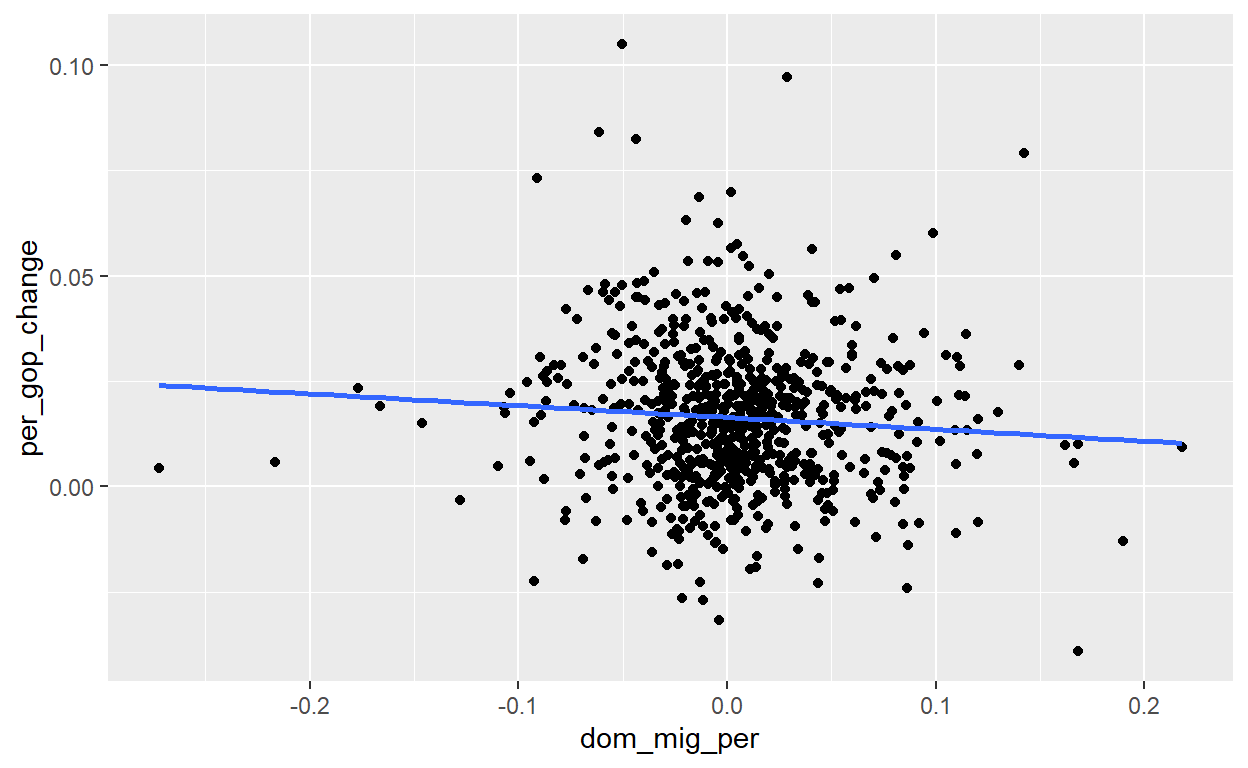
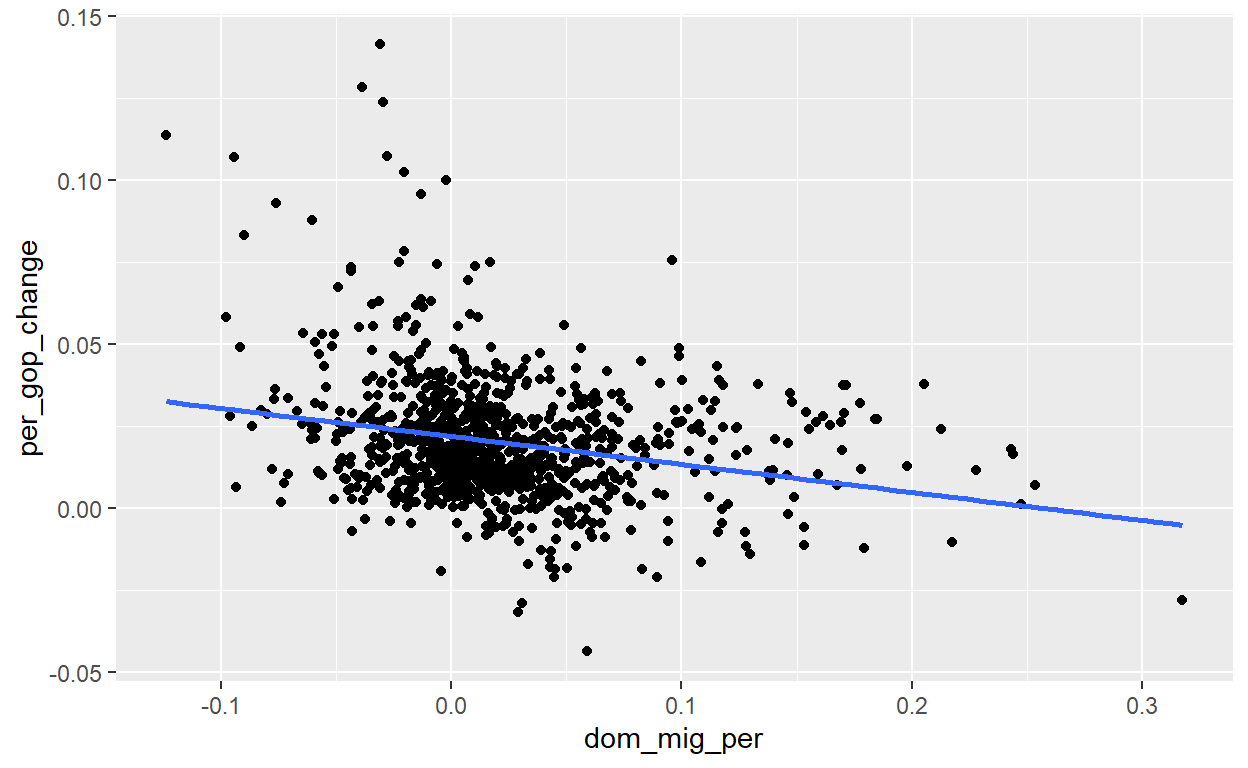
New Graphs plus cleaned up plus explinations

diff --git a/index.html b/index.html
@@ -116,7 +116,7 @@ code span.wa { color: #5e5e5e; font-style: italic; } /* Warning */
   <!--/radix_placeholder_rmarkdown_metadata-->
   
   <script type="text/json" id="radix-resource-manifest">
-  {"type":"character","attributes":{},"value":["index_files/anchor-4.2.2/anchor.min.js","index_files/bowser-1.9.3/bowser.min.js","index_files/distill-2.2.21/template.v2.js","index_files/figure-html5/unnamed-chunk-3-1.png","index_files/figure-html5/unnamed-chunk-4-1.png","index_files/figure-html5/unnamed-chunk-5-1.png","index_files/figure-html5/unnamed-chunk-6-1.png","index_files/header-attrs-2.17/header-attrs.js","index_files/header-attrs-2.30/header-attrs.js","index_files/jquery-3.6.0/jquery-3.6.0.js","index_files/jquery-3.6.0/jquery-3.6.0.min.js","index_files/jquery-3.6.0/jquery-3.6.0.min.map","index_files/popper-2.6.0/popper.min.js","index_files/tippy-6.2.7/tippy-bundle.umd.min.js","index_files/tippy-6.2.7/tippy-light-border.css","index_files/tippy-6.2.7/tippy.css","index_files/tippy-6.2.7/tippy.umd.min.js","index_files/webcomponents-2.0.0/webcomponents.js","pop_data/co-est2024-alldata.csv","pres_data/2020_US_County_Level_Presidential_Results.csv","pres_data/2024_US_County_Level_Presidential_Results.csv"]}
+  {"type":"character","attributes":{},"value":["index_files/anchor-4.2.2/anchor.min.js","index_files/bowser-1.9.3/bowser.min.js","index_files/distill-2.2.21/template.v2.js","index_files/figure-html5/unnamed-chunk-3-1.png","index_files/figure-html5/unnamed-chunk-4-1.png","index_files/figure-html5/unnamed-chunk-5-1.png","index_files/figure-html5/unnamed-chunk-6-1.png","index_files/figure-html5/unnamed-chunk-7-1.png","index_files/figure-html5/unnamed-chunk-8-1.png","index_files/header-attrs-2.17/header-attrs.js","index_files/header-attrs-2.30/header-attrs.js","index_files/jquery-3.6.0/jquery-3.6.0.js","index_files/jquery-3.6.0/jquery-3.6.0.min.js","index_files/jquery-3.6.0/jquery-3.6.0.min.map","index_files/popper-2.6.0/popper.min.js","index_files/tippy-6.2.7/tippy-bundle.umd.min.js","index_files/tippy-6.2.7/tippy-light-border.css","index_files/tippy-6.2.7/tippy.css","index_files/tippy-6.2.7/tippy.umd.min.js","index_files/webcomponents-2.0.0/webcomponents.js","pop_data/co-est2024-alldata.csv","pres_data/2020_US_County_Level_Presidential_Results.csv","pres_data/2024_US_County_Level_Presidential_Results.csv"]}
   </script>
   <!--radix_placeholder_navigation_in_header-->
   <!--/radix_placeholder_navigation_in_header-->
@@ -1547,55 +1547,9 @@ code span.wa { color: #5e5e5e; font-style: italic; } /* Warning */
 <h2 id="project-description">Project Description</h2>
 <p>It is a common political complaint among conservative Americans that when people move in from out of state they “take their politics with them.” The three states with the largest exodus of population are solidly blue states with large blue metropolitan areas: California, Illinois, and New York. But is this trope actually true or is it borne out of some sort of large scale “survivorship bias”? In this study, each county in 48 states (excluding the District of Columbia, Alaska, and Connecticut for statistical reasons) will be used to compare their changes in voting patterns from the 2020 and 2024 Presidential Elections. In order to get a holistic view, the data will be organized by state, population, et cetera.This project will seek to answer, or at a minimum strive towards answering, whether the large flow of domestic migration has a major effect on electoral behaviors.</p>
 <div class="layout-chunk" data-layout="l-body">
-<div class="sourceCode">
-<pre class="sourceCode r"><code class="sourceCode r"><span><span class='kw'><a href='https://rdrr.io/r/base/library.html'>library</a></span><span class='op'>(</span><span class='va'><a href='https://tidyverse.tidyverse.org'>tidyverse</a></span><span class='op'>)</span></span>
-<span><span class='va'>pres_2020</span> <span class='op'>&lt;-</span> <span class='fu'><a href='https://readr.tidyverse.org/reference/read_delim.html'>read_csv</a></span><span class='op'>(</span><span class='st'>"pres_data/2020_US_County_Level_Presidential_Results.csv"</span><span class='op'>)</span></span>
-<span><span class='va'>pres_2020</span> <span class='op'>&lt;-</span> <span class='va'>pres_2020</span> <span class='op'>|&gt;</span> <span class='fu'><a href='https://dplyr.tidyverse.org/reference/filter.html'>filter</a></span><span class='op'>(</span><span class='va'>state_name</span> <span class='op'>!=</span> <span class='st'>"Alaska"</span>, <span class='va'>state_name</span> <span class='op'>!=</span> <span class='st'>"Connecticut"</span>, </span>
-<span>                                 <span class='va'>state_name</span> <span class='op'>!=</span> <span class='st'>"District of Columbia"</span><span class='op'>)</span></span>
-<span><span class='va'>pres_2020</span> <span class='op'>&lt;-</span> <span class='va'>pres_2020</span> <span class='op'>|&gt;</span> <span class='fu'><a href='https://dplyr.tidyverse.org/reference/select.html'>select</a></span><span class='op'>(</span><span class='op'>-</span><span class='va'>votes_dem</span>, <span class='op'>-</span><span class='va'>per_dem</span>, <span class='op'>-</span><span class='va'>diff</span>, <span class='op'>-</span><span class='va'>per_point_diff</span><span class='op'>)</span> <span class='op'>|&gt;</span> </span>
-<span>  <span class='fu'><a href='https://dplyr.tidyverse.org/reference/rename.html'>rename</a></span><span class='op'>(</span>votes_gop_2020 <span class='op'>=</span> <span class='va'>votes_gop</span>, per_gop_2020 <span class='op'>=</span> <span class='va'>per_gop</span>, total_votes_2020 <span class='op'>=</span> <span class='va'>total_votes</span><span class='op'>)</span></span>
-<span></span>
-<span><span class='va'>pres_2024</span> <span class='op'>&lt;-</span> <span class='fu'><a href='https://readr.tidyverse.org/reference/read_delim.html'>read_csv</a></span><span class='op'>(</span><span class='st'>"pres_data/2024_US_County_Level_Presidential_Results.csv"</span><span class='op'>)</span></span>
-<span><span class='va'>pres_2024</span> <span class='op'>&lt;-</span> <span class='va'>pres_2024</span> <span class='op'>|&gt;</span> <span class='fu'><a href='https://dplyr.tidyverse.org/reference/filter.html'>filter</a></span><span class='op'>(</span><span class='va'>state_name</span> <span class='op'>!=</span> <span class='st'>"Alaska"</span>, <span class='va'>state_name</span> <span class='op'>!=</span> <span class='st'>"Connecticut"</span>, </span>
-<span>                                 <span class='va'>state_name</span> <span class='op'>!=</span> <span class='st'>"District of Columbia"</span><span class='op'>)</span></span>
-<span><span class='va'>pres_2024</span> <span class='op'>&lt;-</span> <span class='va'>pres_2024</span> <span class='op'>|&gt;</span> <span class='fu'><a href='https://dplyr.tidyverse.org/reference/select.html'>select</a></span><span class='op'>(</span><span class='op'>-</span><span class='va'>votes_dem</span>, <span class='op'>-</span><span class='va'>per_dem</span>, <span class='op'>-</span><span class='va'>diff</span>, <span class='op'>-</span><span class='va'>per_point_diff</span><span class='op'>)</span> <span class='op'>|&gt;</span> </span>
-<span>  <span class='fu'><a href='https://dplyr.tidyverse.org/reference/rename.html'>rename</a></span><span class='op'>(</span>votes_gop_2024 <span class='op'>=</span> <span class='va'>votes_gop</span>, per_gop_2024 <span class='op'>=</span> <span class='va'>per_gop</span>, total_votes_2024 <span class='op'>=</span> <span class='va'>total_votes</span><span class='op'>)</span></span>
-<span></span>
-<span><span class='va'>pop_2024</span> <span class='op'>&lt;-</span> <span class='fu'><a href='https://readr.tidyverse.org/reference/read_delim.html'>read_csv</a></span><span class='op'>(</span><span class='st'>"pop_data/co-est2024-alldata.csv"</span><span class='op'>)</span></span>
-<span><span class='va'>pop_2024</span> <span class='op'>&lt;-</span> <span class='va'>pop_2024</span> <span class='op'>|&gt;</span> <span class='fu'><a href='https://dplyr.tidyverse.org/reference/filter.html'>filter</a></span><span class='op'>(</span><span class='va'>STNAME</span> <span class='op'>!=</span> <span class='st'>"Alaska"</span>, <span class='va'>STNAME</span> <span class='op'>!=</span> <span class='st'>"Connecticut"</span>, <span class='va'>STNAME</span> <span class='op'>!=</span> <span class='st'>"District of Columbia"</span><span class='op'>)</span></span>
-<span><span class='va'>pop_2024</span> <span class='op'>&lt;-</span> <span class='va'>pop_2024</span> <span class='op'>|&gt;</span> <span class='fu'><a href='https://dplyr.tidyverse.org/reference/mutate.html'>mutate</a></span><span class='op'>(</span>county_fips <span class='op'>=</span> <span class='fu'><a href='https://rdrr.io/r/base/paste.html'>paste0</a></span><span class='op'>(</span><span class='va'>STATE</span>, <span class='va'>COUNTY</span><span class='op'>)</span><span class='op'>)</span> <span class='op'>|&gt;</span> </span>
-<span>  <span class='fu'><a href='https://dplyr.tidyverse.org/reference/mutate.html'>mutate</a></span><span class='op'>(</span>dom_mig_total <span class='op'>=</span> <span class='op'>(</span><span class='va'>DOMESTICMIG2020</span> <span class='op'>+</span> <span class='va'>DOMESTICMIG2021</span> <span class='op'>+</span> <span class='va'>DOMESTICMIG2022</span> <span class='op'>+</span> <span class='va'>DOMESTICMIG2023</span> <span class='op'>+</span> <span class='va'>DOMESTICMIG2024</span><span class='op'>)</span><span class='op'>)</span> <span class='op'>|&gt;</span> </span>
-<span>  <span class='fu'><a href='https://dplyr.tidyverse.org/reference/mutate.html'>mutate</a></span> <span class='op'>(</span>dom_mig_per <span class='op'>=</span> <span class='va'>dom_mig_total</span> <span class='op'>/</span> <span class='va'>ESTIMATESBASE2020</span><span class='op'>)</span> <span class='op'>|&gt;</span> <span class='fu'><a href='https://dplyr.tidyverse.org/reference/mutate.html'>mutate</a></span><span class='op'>(</span>population_2020 <span class='op'>=</span> <span class='va'>ESTIMATESBASE2020</span><span class='op'>)</span></span></code></pre>
-</div>
+
 </div>
 <div class="layout-chunk" data-layout="l-body">
-<div class="sourceCode">
-<pre class="sourceCode r"><code class="sourceCode r"><span><span class='va'>pop_2024_important</span> <span class='op'>&lt;-</span> <span class='va'>pop_2024</span> <span class='op'>|&gt;</span> <span class='fu'><a href='https://dplyr.tidyverse.org/reference/select.html'>select</a></span><span class='op'>(</span><span class='va'>county_fips</span>, <span class='va'>dom_mig_total</span>, <span class='va'>dom_mig_per</span>, <span class='va'>population_2020</span><span class='op'>)</span></span>
-<span></span>
-<span><span class='va'>pop_2024_50_states</span> <span class='op'>&lt;-</span> <span class='va'>pop_2024</span> <span class='op'>|&gt;</span> <span class='fu'><a href='https://dplyr.tidyverse.org/reference/filter.html'>filter</a></span><span class='op'>(</span><span class='va'>STNAME</span> <span class='op'>==</span> <span class='va'>CTYNAME</span><span class='op'>)</span> <span class='op'>|&gt;</span> </span>
-<span>  <span class='fu'><a href='https://dplyr.tidyverse.org/reference/arrange.html'>arrange</a></span><span class='op'>(</span><span class='fu'><a href='https://dplyr.tidyverse.org/reference/desc.html'>desc</a></span><span class='op'>(</span><span class='va'>dom_mig_per</span><span class='op'>)</span><span class='op'>)</span> <span class='op'>|&gt;</span></span>
-<span>  <span class='fu'><a href='https://dplyr.tidyverse.org/reference/select.html'>select</a></span><span class='op'>(</span><span class='va'>STNAME</span>, <span class='va'>dom_mig_per</span>, <span class='va'>population_2020</span><span class='op'>)</span> </span>
-<span></span>
-<span><span class='va'>percent_gop</span> <span class='op'>&lt;-</span> <span class='fu'><a href='https://dplyr.tidyverse.org/reference/mutate-joins.html'>left_join</a></span><span class='op'>(</span><span class='va'>pres_2020</span>, <span class='va'>pres_2024</span><span class='op'>)</span> <span class='op'>|&gt;</span> <span class='fu'><a href='https://dplyr.tidyverse.org/reference/mutate.html'>mutate</a></span><span class='op'>(</span>per_gop_change <span class='op'>=</span> <span class='va'>per_gop_2024</span> <span class='op'>-</span> <span class='va'>per_gop_2020</span><span class='op'>)</span></span>
-<span><span class='va'>percent_gop</span> <span class='op'>&lt;-</span> <span class='fu'><a href='https://dplyr.tidyverse.org/reference/mutate-joins.html'>left_join</a></span><span class='op'>(</span><span class='va'>percent_gop</span>, <span class='va'>pop_2024_important</span>, by <span class='op'>=</span> <span class='st'>"county_fips"</span><span class='op'>)</span></span>
-<span></span>
-<span><span class='va'>focused_per_gop</span> <span class='op'>&lt;-</span> <span class='va'>percent_gop</span> <span class='op'>|&gt;</span> <span class='fu'><a href='https://dplyr.tidyverse.org/reference/select.html'>select</a></span><span class='op'>(</span><span class='va'>county_fips</span>, <span class='va'>state_name</span>, <span class='va'>per_gop_change</span>, <span class='va'>dom_mig_per</span>, <span class='va'>population_2020</span><span class='op'>)</span></span>
-<span></span>
-<span><span class='va'>percent_gop_50_states</span> <span class='op'>&lt;-</span> <span class='va'>percent_gop</span> <span class='op'>|&gt;</span> <span class='fu'><a href='https://dplyr.tidyverse.org/reference/group_by.html'>group_by</a></span><span class='op'>(</span><span class='va'>state_name</span><span class='op'>)</span> <span class='op'>|&gt;</span> </span>
-<span>  <span class='fu'><a href='https://dplyr.tidyverse.org/reference/summarise.html'>summarize</a></span><span class='op'>(</span>dom_mig_total <span class='op'>=</span> <span class='fu'><a href='https://rdrr.io/r/base/sum.html'>sum</a></span><span class='op'>(</span><span class='va'>dom_mig_total</span><span class='op'>)</span>, population_2020 <span class='op'>=</span> <span class='fu'><a href='https://rdrr.io/r/base/sum.html'>sum</a></span><span class='op'>(</span><span class='va'>population_2020</span><span class='op'>)</span>, gop_2020 <span class='op'>=</span> <span class='fu'><a href='https://rdrr.io/r/base/sum.html'>sum</a></span><span class='op'>(</span><span class='va'>votes_gop_2020</span><span class='op'>)</span>,</span>
-<span>            gop_2024 <span class='op'>=</span> <span class='fu'><a href='https://rdrr.io/r/base/sum.html'>sum</a></span><span class='op'>(</span><span class='va'>votes_gop_2024</span><span class='op'>)</span>, total_2020 <span class='op'>=</span> <span class='fu'><a href='https://rdrr.io/r/base/sum.html'>sum</a></span><span class='op'>(</span><span class='va'>total_votes_2020</span><span class='op'>)</span>, total_2024 <span class='op'>=</span> <span class='fu'><a href='https://rdrr.io/r/base/sum.html'>sum</a></span><span class='op'>(</span><span class='va'>total_votes_2024</span><span class='op'>)</span><span class='op'>)</span></span>
-<span></span>
-<span><span class='va'>percent_gop_50_states</span> <span class='op'>&lt;-</span> <span class='va'>percent_gop_50_states</span> <span class='op'>|&gt;</span> </span>
-<span>  <span class='fu'><a href='https://dplyr.tidyverse.org/reference/mutate.html'>mutate</a></span><span class='op'>(</span>domestic <span class='op'>=</span> <span class='op'>(</span><span class='va'>dom_mig_total</span> <span class='op'>/</span> <span class='va'>population_2020</span><span class='op'>)</span>, gop_2024_per <span class='op'>=</span> <span class='op'>(</span><span class='va'>gop_2024</span> <span class='op'>/</span> <span class='va'>total_2024</span><span class='op'>)</span>, </span>
-<span>         gop_2020_per <span class='op'>=</span> <span class='op'>(</span><span class='va'>gop_2020</span> <span class='op'>/</span> <span class='va'>total_2020</span><span class='op'>)</span><span class='op'>)</span> <span class='op'>|&gt;</span> </span>
-<span>  <span class='fu'><a href='https://dplyr.tidyverse.org/reference/mutate.html'>mutate</a></span><span class='op'>(</span>gop_change <span class='op'>=</span> <span class='op'>(</span><span class='va'>gop_2024_per</span> <span class='op'>-</span> <span class='va'>gop_2020_per</span><span class='op'>)</span><span class='op'>)</span></span>
-<span></span>
-<span><span class='va'>percent_gop_50_states</span> <span class='op'>&lt;-</span> <span class='va'>percent_gop_50_states</span> <span class='op'>|&gt;</span> <span class='fu'><a href='https://dplyr.tidyverse.org/reference/mutate.html'>mutate</a></span><span class='op'>(</span>dom_mig_per <span class='op'>=</span> <span class='va'>dom_mig_total</span><span class='op'>/</span><span class='va'>population_2020</span><span class='op'>)</span> <span class='op'>|&gt;</span> <span class='fu'><a href='https://dplyr.tidyverse.org/reference/select.html'>select</a></span><span class='op'>(</span><span class='va'>state_name</span>, <span class='va'>gop_change</span>, <span class='va'>dom_mig_per</span>, <span class='va'>population_2020</span><span class='op'>)</span> <span class='op'>|&gt;</span></span>
-<span>  <span class='fu'><a href='https://dplyr.tidyverse.org/reference/arrange.html'>arrange</a></span><span class='op'>(</span><span class='fu'><a href='https://dplyr.tidyverse.org/reference/desc.html'>desc</a></span><span class='op'>(</span><span class='va'>dom_mig_per</span><span class='op'>)</span><span class='op'>)</span> </span>
-<span></span>
-<span></span>
-<span><span class='fu'><a href='https://rdrr.io/r/base/print.html'>print</a></span><span class='op'>(</span><span class='va'>percent_gop_50_states</span><span class='op'>)</span></span></code></pre>
-</div>
 <pre><code># A tibble: 48 × 4
    state_name     gop_change dom_mig_per population_2020
    &lt;chr&gt;               &lt;dbl&gt;       &lt;dbl&gt;           &lt;dbl&gt;
@@ -1610,53 +1564,25 @@ code span.wa { color: #5e5e5e; font-style: italic; } /* Warning */
  9 Arizona            0.0317      0.0353         7158110
 10 Nevada             0.0293      0.0262         3105595
 # ℹ 38 more rows</code></pre>
-<div class="sourceCode">
-<pre class="sourceCode r"><code class="sourceCode r"><span><span class='co'>#head(percent_gop)</span></span>
-<span><span class='co'>#head(pop_2024)</span></span></code></pre>
-</div>
 </div>
 <div class="layout-chunk" data-layout="l-body">
-<div class="sourceCode">
-<pre class="sourceCode r"><code class="sourceCode r"><span><span class='va'>plot_basic</span> <span class='op'>&lt;-</span> <span class='fu'><a href='https://ggplot2.tidyverse.org/reference/ggplot.html'>ggplot</a></span><span class='op'>(</span><span class='va'>focused_per_gop</span>, mapping <span class='op'>=</span> <span class='fu'><a href='https://ggplot2.tidyverse.org/reference/aes.html'>aes</a></span><span class='op'>(</span>x<span class='op'>=</span><span class='va'>dom_mig_per</span>, y<span class='op'>=</span><span class='va'>per_gop_change</span><span class='op'>)</span><span class='op'>)</span> <span class='op'>+</span> </span>
-<span>  <span class='fu'><a href='https://ggplot2.tidyverse.org/reference/geom_point.html'>geom_point</a></span><span class='op'>(</span><span class='op'>)</span> <span class='op'>+</span> </span>
-<span>  <span class='fu'><a href='https://ggplot2.tidyverse.org/reference/geom_smooth.html'>geom_smooth</a></span><span class='op'>(</span>method <span class='op'>=</span> <span class='st'>"lm"</span>, se <span class='op'>=</span> <span class='cn'>FALSE</span>, linewidth <span class='op'>=</span> <span class='fl'>2.0</span><span class='op'>)</span> <span class='op'>+</span> </span>
-<span>  <span class='fu'><a href='https://ggplot2.tidyverse.org/reference/labs.html'>labs</a></span><span class='op'>(</span>title <span class='op'>=</span> <span class='st'>"The Effect of Domestic Migration on the 2024 Presidential Election"</span>, </span>
-<span>       x <span class='op'>=</span> <span class='st'>"Net Proportional Domestic Migration per County, 2020-2024"</span>, </span>
-<span>       y <span class='op'>=</span> <span class='st'>"Change in GOP Voteshare per County, 2020-2024"</span>, </span>
-<span>       caption <span class='op'>=</span> <span class='st'>"Sources: 2024 PEP Census Data, 2020 and 2024 US House of Representatives Election Statistics"</span><span class='op'>)</span></span>
-<span><span class='va'>plot_basic</span></span></code></pre>
-</div>
 <p><img src="index_files/figure-html5/unnamed-chunk-3-1.png" alt="" width="624" /></p>
 </div>
+This first graph simply plots each county in every state except for Alaska and Connecticut based on their net proportional domestic migration between the 2020 and 2024 elections and the change in the percent of votes that went to the GOP from the 2020 election to the 2024 election. The dashed line represents no change in vote share and the blue line represents the line of best fit. This graph has a clear negative correlation, meaning that as net proportional domestic migration increases the change in percent votes for the GOP in that county is, on average, likely to decrease. There are some flaws in this graph that hinder a perfect representation. The first flaw is that the national vote share for the GOP has not remained constant between 2020 and 2024; in fact, it increased by 2.95%.
 <div class="layout-chunk" data-layout="l-body">
-<div class="sourceCode">
-<pre class="sourceCode r"><code class="sourceCode r"><span><span class='va'>plot_50k</span> <span class='op'>&lt;-</span> <span class='va'>focused_per_gop</span> <span class='op'>|&gt;</span> <span class='fu'><a href='https://dplyr.tidyverse.org/reference/filter.html'>filter</a></span><span class='op'>(</span><span class='va'>population_2020</span> <span class='op'>&gt;</span> <span class='fl'>50000</span><span class='op'>)</span> <span class='op'>|&gt;</span></span>
-<span>  <span class='fu'><a href='https://ggplot2.tidyverse.org/reference/ggplot.html'>ggplot</a></span><span class='op'>(</span><span class='va'>focused_per_gop</span>, mapping <span class='op'>=</span> <span class='fu'><a href='https://ggplot2.tidyverse.org/reference/aes.html'>aes</a></span><span class='op'>(</span>x<span class='op'>=</span><span class='va'>dom_mig_per</span>, y<span class='op'>=</span><span class='va'>per_gop_change</span><span class='op'>)</span><span class='op'>)</span> <span class='op'>+</span> </span>
-<span>  <span class='fu'><a href='https://ggplot2.tidyverse.org/reference/geom_point.html'>geom_point</a></span><span class='op'>(</span><span class='op'>)</span> <span class='op'>+</span> </span>
-<span>  <span class='fu'><a href='https://ggplot2.tidyverse.org/reference/geom_smooth.html'>geom_smooth</a></span><span class='op'>(</span>method <span class='op'>=</span> <span class='st'>"lm"</span>, se <span class='op'>=</span> <span class='cn'>FALSE</span><span class='op'>)</span></span>
-<span><span class='va'>plot_50k</span></span></code></pre>
-</div>
 <p><img src="index_files/figure-html5/unnamed-chunk-4-1.png" alt="" width="624" /></p>
 </div>
 <div class="layout-chunk" data-layout="l-body">
-<div class="sourceCode">
-<pre class="sourceCode r"><code class="sourceCode r"><span><span class='va'>plot_10k_50k</span> <span class='op'>&lt;-</span> <span class='va'>focused_per_gop</span> <span class='op'>|&gt;</span> <span class='fu'><a href='https://dplyr.tidyverse.org/reference/filter.html'>filter</a></span><span class='op'>(</span><span class='va'>population_2020</span> <span class='op'>&gt;=</span> <span class='fl'>10000</span> <span class='op'>&amp;</span> <span class='va'>population_2020</span> <span class='op'>&lt;=</span> <span class='fl'>50000</span><span class='op'>)</span> <span class='op'>|&gt;</span></span>
-<span>  <span class='fu'><a href='https://ggplot2.tidyverse.org/reference/ggplot.html'>ggplot</a></span><span class='op'>(</span><span class='va'>focused_per_gop</span>, mapping <span class='op'>=</span> <span class='fu'><a href='https://ggplot2.tidyverse.org/reference/aes.html'>aes</a></span><span class='op'>(</span>x<span class='op'>=</span><span class='va'>dom_mig_per</span>, y<span class='op'>=</span><span class='va'>per_gop_change</span><span class='op'>)</span><span class='op'>)</span> <span class='op'>+</span> </span>
-<span>  <span class='fu'><a href='https://ggplot2.tidyverse.org/reference/geom_point.html'>geom_point</a></span><span class='op'>(</span><span class='op'>)</span> <span class='op'>+</span> </span>
-<span>  <span class='fu'><a href='https://ggplot2.tidyverse.org/reference/geom_smooth.html'>geom_smooth</a></span><span class='op'>(</span>method <span class='op'>=</span> <span class='st'>"lm"</span>, se <span class='op'>=</span> <span class='cn'>FALSE</span><span class='op'>)</span></span>
-<span><span class='va'>plot_10k_50k</span></span></code></pre>
-</div>
 <p><img src="index_files/figure-html5/unnamed-chunk-5-1.png" alt="" width="624" /></p>
 </div>
 <div class="layout-chunk" data-layout="l-body">
-<div class="sourceCode">
-<pre class="sourceCode r"><code class="sourceCode r"><span><span class='va'>plot_10k</span> <span class='op'>&lt;-</span> <span class='va'>focused_per_gop</span> <span class='op'>|&gt;</span> <span class='fu'><a href='https://dplyr.tidyverse.org/reference/filter.html'>filter</a></span><span class='op'>(</span><span class='va'>population_2020</span> <span class='op'>&lt;</span> <span class='fl'>10000</span><span class='op'>)</span> <span class='op'>|&gt;</span></span>
-<span>  <span class='fu'><a href='https://ggplot2.tidyverse.org/reference/ggplot.html'>ggplot</a></span><span class='op'>(</span><span class='va'>focused_per_gop</span>, mapping <span class='op'>=</span> <span class='fu'><a href='https://ggplot2.tidyverse.org/reference/aes.html'>aes</a></span><span class='op'>(</span>x<span class='op'>=</span><span class='va'>dom_mig_per</span>, y<span class='op'>=</span><span class='va'>per_gop_change</span><span class='op'>)</span><span class='op'>)</span> <span class='op'>+</span> </span>
-<span>  <span class='fu'><a href='https://ggplot2.tidyverse.org/reference/geom_point.html'>geom_point</a></span><span class='op'>(</span><span class='op'>)</span> <span class='op'>+</span> </span>
-<span>  <span class='fu'><a href='https://ggplot2.tidyverse.org/reference/geom_smooth.html'>geom_smooth</a></span><span class='op'>(</span>method <span class='op'>=</span> <span class='st'>"lm"</span>, se <span class='op'>=</span> <span class='cn'>FALSE</span><span class='op'>)</span></span>
-<span><span class='va'>plot_10k</span></span></code></pre>
-</div>
 <p><img src="index_files/figure-html5/unnamed-chunk-6-1.png" alt="" width="624" /></p>
+</div>
+<div class="layout-chunk" data-layout="l-body">
+<p><img src="index_files/figure-html5/unnamed-chunk-7-1.png" alt="" width="624" /></p>
+</div>
+<div class="layout-chunk" data-layout="l-body">
+<p><img src="index_files/figure-html5/unnamed-chunk-8-1.png" alt="" width="624" /></p>
 </div>
 <div class="sourceCode" id="cb2"><pre class="sourceCode r distill-force-highlighting-css"><code class="sourceCode r"></code></pre></div>
 <!--radix_placeholder_article_footer-->
